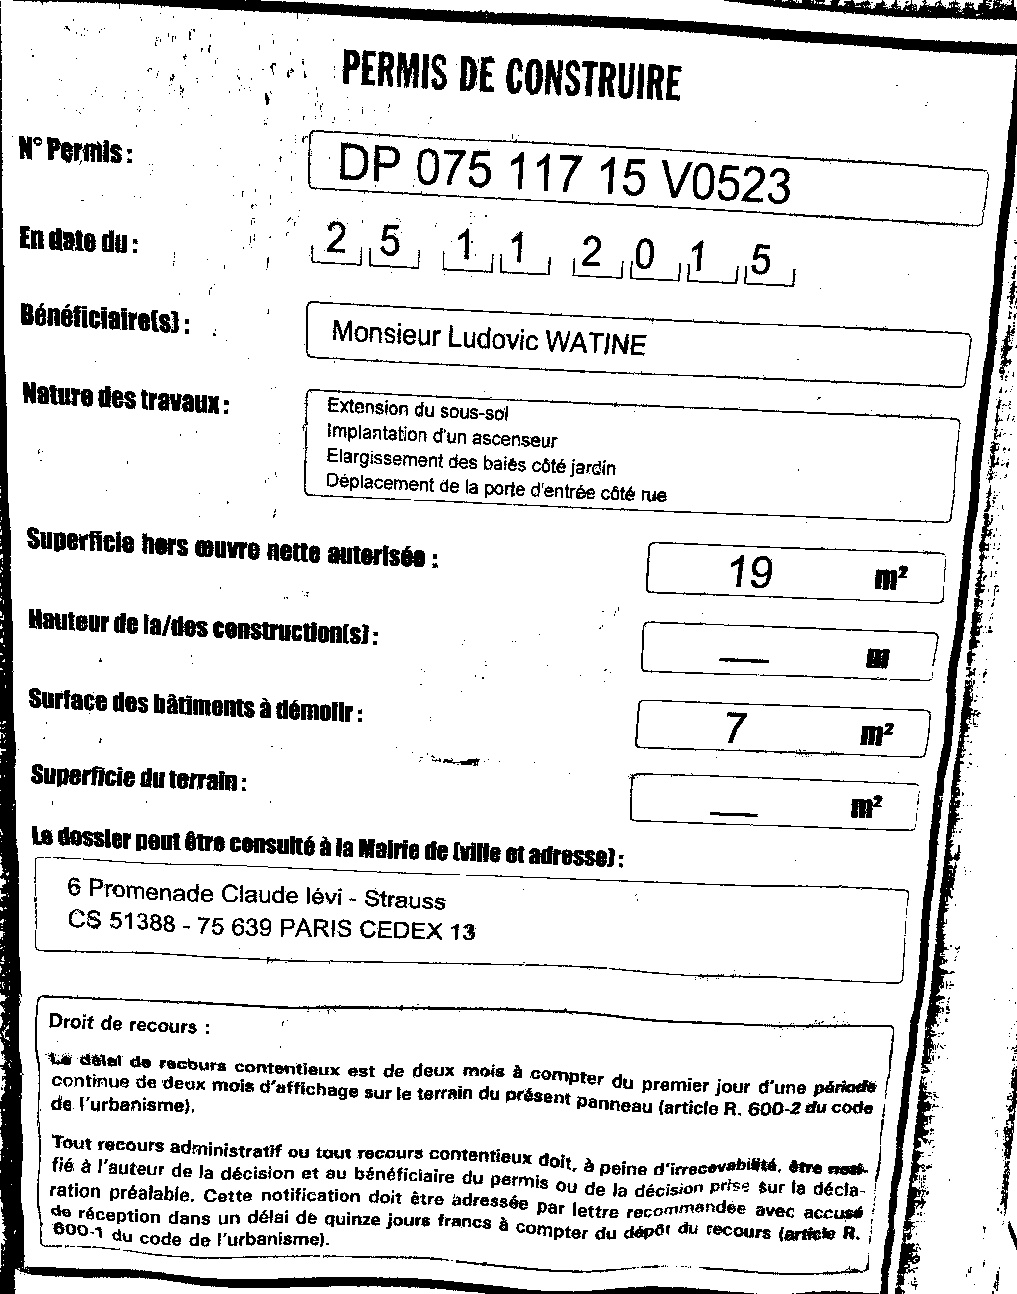
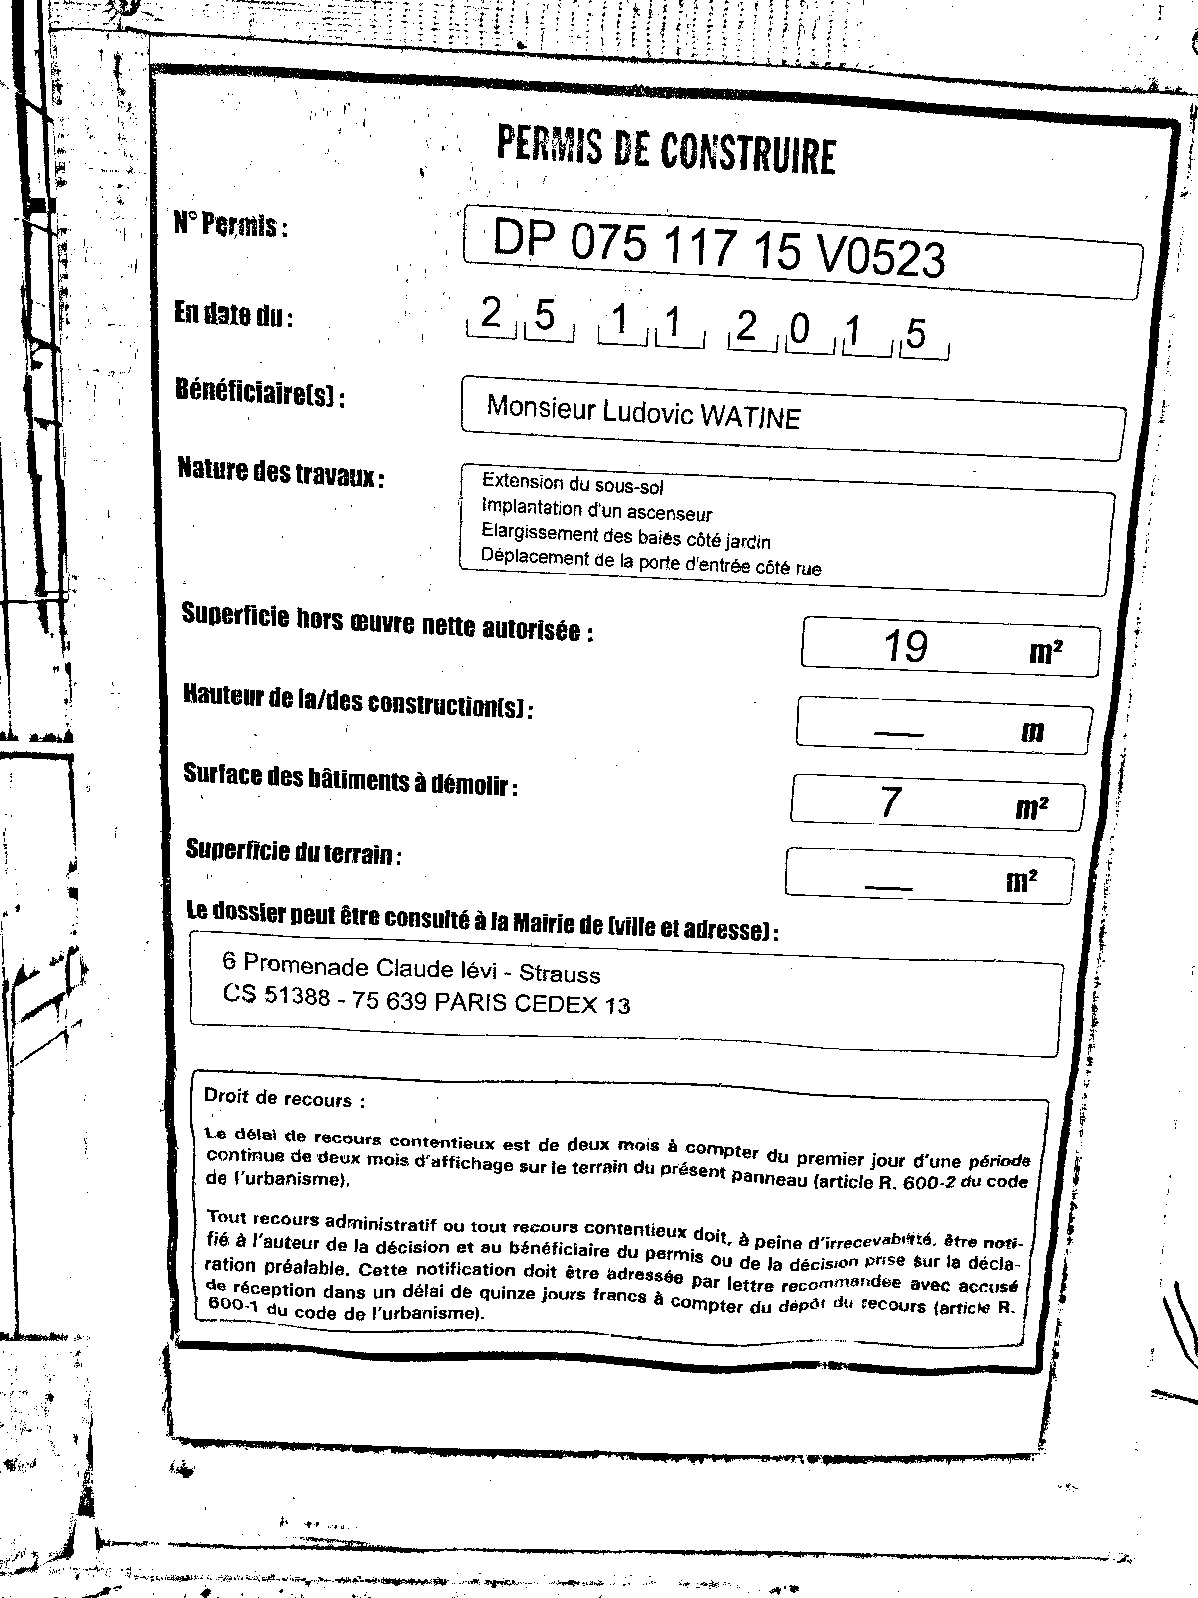
fixed with version 0.0.5 of ocr preprocessor

diff --git a/public/javascripts/main.min.js b/public/javascripts/main.min.js
@@ -1,1 +1,1 @@
-$(document).ready(function(){function e(e){console.log("Updating preview content !"),$("#previewContent").attr("src",e+"?"+(new Date).getTime()),d=!0}function t(e){console.log(e),e=e.replace(/(?:\r\n|\r|\n)/g,"<br />"),$("#decodeContent").html(e),r(!1)}function o(){var e=$("#blur"),t=$("#min-threshold"),o=$("#max-threshold"),n=$("#matrix-size"),r=$("#reverse-threshold");return{blur:e.val(),min:t.val(),max:o.val(),mat:n.val(),rev:r.is(":checked")}}function n(e){var t=$("#preview-progress");t.show(),t.find(">:first-child").width(e+"%")}function r(e){var t=$("#ocr-progress");e===!0?t.show():t.hide()}function i(){0!=d&&a.emit("preview",o())}function c(){a.emit("decode",o()),r(!0)}var a=io("http://localhost:4250"),d=!0;a.on("updatePreviewStatus",n),a.on("updateDecodeStatus",r),a.on("updatePreview",e),a.on("updateDecode",t),$("#decode").click(c),$("#preview").click(i)});
+$(document).ready(function(){function e(e){console.log("Updating preview content !"),$("#previewContent").attr("src",e+"?"+(new Date).getTime()),s=!0}function t(e){console.log(e),e=e.replace(/(?:\r\n|\r|\n)/g,"<br />"),$("#decodeContent").html(e),r(!1)}function o(){var e=$("#blur"),t=$("#constant"),o=$("#max-threshold"),n=$("#matrix-size"),r=$("#reverse-threshold"),i=$("#isolate");return{blur:e.val(),"const":t.val(),thresh:o.val(),matrix:n.val(),revert:r.is(":checked"),isolate:i.is(":checked")}}function n(e){var t=$("#preview-progress");t.show(),t.find(">:first-child").width(e+"%")}function r(e){var t=$("#ocr-progress");e===!0?t.show():t.hide()}function i(){0!=s&&a.emit("preview",o())}function c(){a.emit("decode",o()),r(!0)}var a=io("http://localhost:4250"),s=!0;a.on("updatePreviewStatus",n),a.on("updateDecodeStatus",r),a.on("updatePreview",e),a.on("updateDecode",t),$("#decode").click(c),$("#preview").click(i)});

diff --git a/public/index.html b/public/index.html
@@ -63,16 +63,24 @@
 
           <h7 class="teal-text">Blur</h7>
           <paper-slider id="blur" class="slider-blue" value="0" max="10"></paper-slider>
-          <h7 class="teal-text">Minimum threshold</h7>
-          <paper-slider id="min-threshold" class="slider-blue" value="0" max="250"></paper-slider>
-          <h7 class="teal-text">Maximum threshold</h7>
-          <paper-slider  id="max-threshold" class="slider-blue" value="0" max="250"></paper-slider>
+
+          <h7 class="teal-text">Constant</h7>
+          <paper-slider id="constant" class="slider-blue" value="0" max="100"></paper-slider>
+
+          <h7 class="teal-text">Threshold</h7>
+          <paper-slider  id="max-threshold" class="slider-blue" value="0" max="255"></paper-slider>
+
           <h7 class="teal-text">Matrix size</h7>
           <paper-slider id="matrix-size" class="slider-blue" value="0" max="100"></paper-slider>
 
           <div class="reverse">
             <input type="checkbox" id="reverse-threshold" />
-            <label for="reverse-threshold">Reverse threshold</label>
+            <label for="reverse-threshold">Reverse image</label>
+          </div>
+
+          <div class="isolate">
+            <input type="checkbox" id="isolate" />
+            <label for="isolate">Isolate biggest area</label>
           </div>
 
           <button class="btn waves-effect waves-light"  id="decode" type="submit" name="action"> Decode

diff --git a/public/stylesheets/style.min.css b/public/stylesheets/style.min.css
@@ -1,1 +1,1 @@
-body{display:-ms-flexbox;display:flex;min-height:100vh;-ms-flex-direction:column;flex-direction:column}a{color:#00B7FF}footer{-ms-flex:1;flex:1}.material-icons{display:inline-block;font-size:50px;line-height:41px;width:50px;height:50px;text-align:center;vertical-align:bottom}.card-content{font-weight:700}button{margin-left:10px;margin-right:10px}.reverse{padding-bottom:30px;padding-left:10px;z-index:160}.card-content p{font-size:17px}.divider{margin-top:55px;margin-bottom:20px}#ocr-progress{display:none}
+body{display:-ms-flexbox;display:flex;min-height:100vh;-ms-flex-direction:column;flex-direction:column}a{color:#00B7FF}footer{-ms-flex:1;flex:1}.material-icons{display:inline-block;font-size:50px;line-height:41px;width:50px;height:50px;text-align:center;vertical-align:bottom}.card-content{font-weight:700}button{margin-left:10px;margin-right:10px}.isolate,.reverse{padding-bottom:30px;padding-left:10px;z-index:160}.card-content p{font-size:17px}.divider{margin-top:55px;margin-bottom:20px}#ocr-progress{display:none}

diff --git a/public/javascripts/main.js b/public/javascripts/main.js
@@ -23,18 +23,20 @@ $(document).ready(function () {
 
   // Settings getter
   function getSettings() {
-    var blurElem = $("#blur");
-    var minElem  = $("#min-threshold");
-    var maxElem  = $("#max-threshold");
-    var matrix   = $("#matrix-size");
-    var revElem  = $("#reverse-threshold");
+    var blurElem     = $("#blur");
+    var constElem    = $("#constant");
+    var threshold    = $("#max-threshold");
+    var matrix       = $("#matrix-size");
+    var revElem      = $("#reverse-threshold");
+    var isolate      = $("#isolate");
 
     return {
-      "blur" : blurElem.val(),
-      "min"  : minElem.val(),
-      "max"  : maxElem.val(),
-      "mat"  : matrix.val(),
-      "rev"  : revElem.is(':checked'),
+      "blur"    : blurElem.val(),
+      "const"   : constElem.val(),
+      "thresh"  : threshold.val(),
+      "matrix"  : matrix.val(),
+      "revert"  : revElem.is(':checked'),
+      "isolate" : isolate.is(':checked')
     };
   }
   // preview progress bar

diff --git a/src/javascripts/node-ocr.js b/src/javascripts/node-ocr.js
@@ -23,18 +23,20 @@ $(document).ready(function () {
 
   // Settings getter
   function getSettings() {
-    var blurElem = $("#blur");
-    var minElem  = $("#min-threshold");
-    var maxElem  = $("#max-threshold");
-    var matrix   = $("#matrix-size");
-    var revElem  = $("#reverse-threshold");
+    var blurElem     = $("#blur");
+    var constElem    = $("#constant");
+    var threshold    = $("#max-threshold");
+    var matrix       = $("#matrix-size");
+    var revElem      = $("#reverse-threshold");
+    var isolate      = $("#isolate");
 
     return {
-      "blur" : blurElem.val(),
-      "min"  : minElem.val(),
-      "max"  : maxElem.val(),
-      "mat"  : matrix.val(),
-      "rev"  : revElem.is(':checked'),
+      "blur"    : blurElem.val(),
+      "const"   : constElem.val(),
+      "thresh"  : threshold.val(),
+      "matrix"  : matrix.val(),
+      "revert"  : revElem.is(':checked'),
+      "isolate" : isolate.is(':checked')
     };
   }
   // preview progress bar

diff --git a/imgproc.js b/imgproc.js
@@ -1,9 +1,18 @@
-var pre = require('bybat-preprocessor');
+var preprocess = require('ocr-preprocessor');
 
+let options = {};
 
 module.exports = function(data , socket) {
   socket.emit("updatePreviewStatus" , 0);
-  pre.preprocess("public/images/sample-1.jpg" , "public/images/processed.jpg" , function(err , path) {
+
+  options.blur = data.blur;
+  options.const = data.const;
+  options.threshold = data.thresh;
+  options.matrix = data.matrix;
+  options.revert = data.revert;
+  options.isolate = data.isolate;
+
+  preprocess("public/images/sample-1.jpg" , "public/images/processed.jpg" , options , function(err , path) {
     if (err) {
       console.log(err);
     }

diff --git a/public/stylesheets/style.css b/public/stylesheets/style.css
@@ -33,6 +33,11 @@ button {
   padding-left: 10px;
   z-index: 160; }
 
+.isolate {
+  padding-bottom: 30px;
+  padding-left: 10px;
+  z-index: 160; }
+
 .card-content p {
   font-size: 17px; }
 

diff --git a/src/stylesheets/style.scss b/src/stylesheets/style.scss
@@ -38,6 +38,13 @@ button {
   z-index: 160;
 }
 
+.isolate
+{
+  padding-bottom: 30px;
+  padding-left: 10px;
+  z-index: 160;
+}
+
 .card-content p {
   font-size: 17px;
 }
